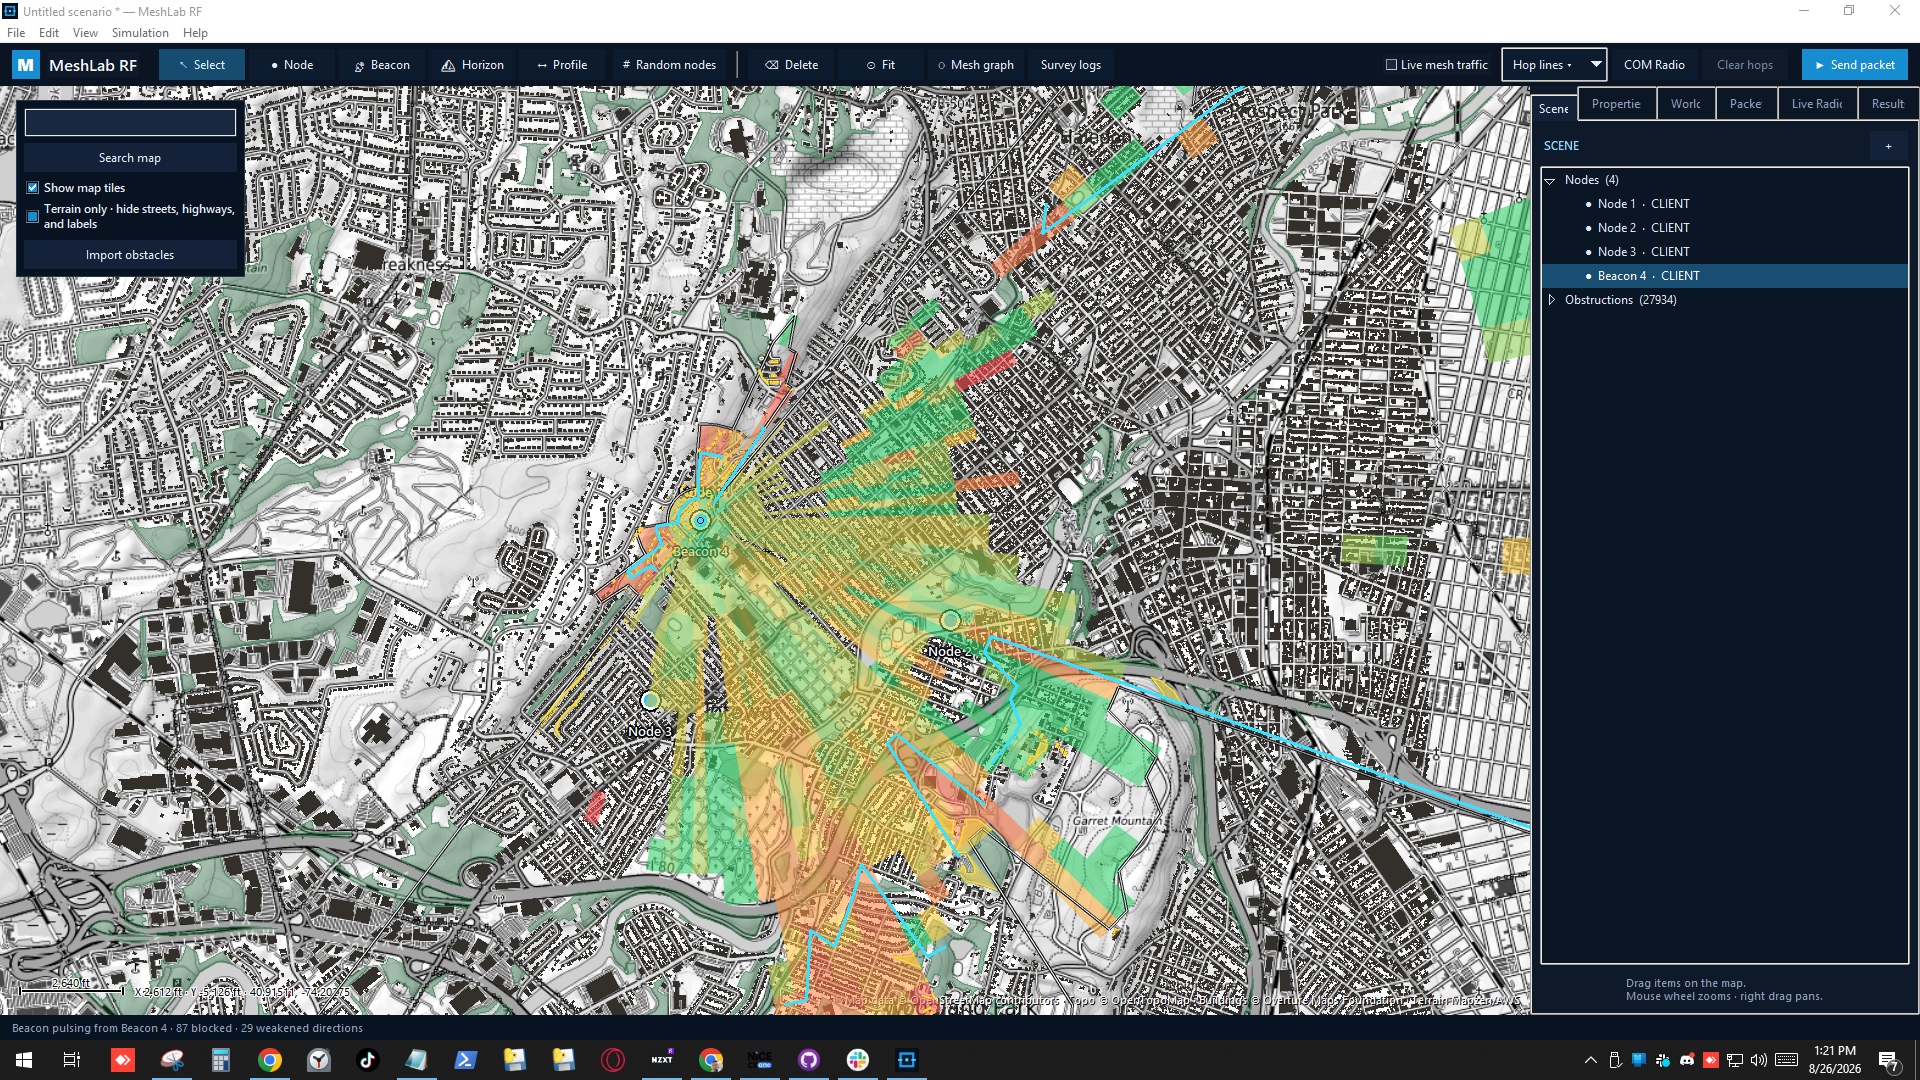
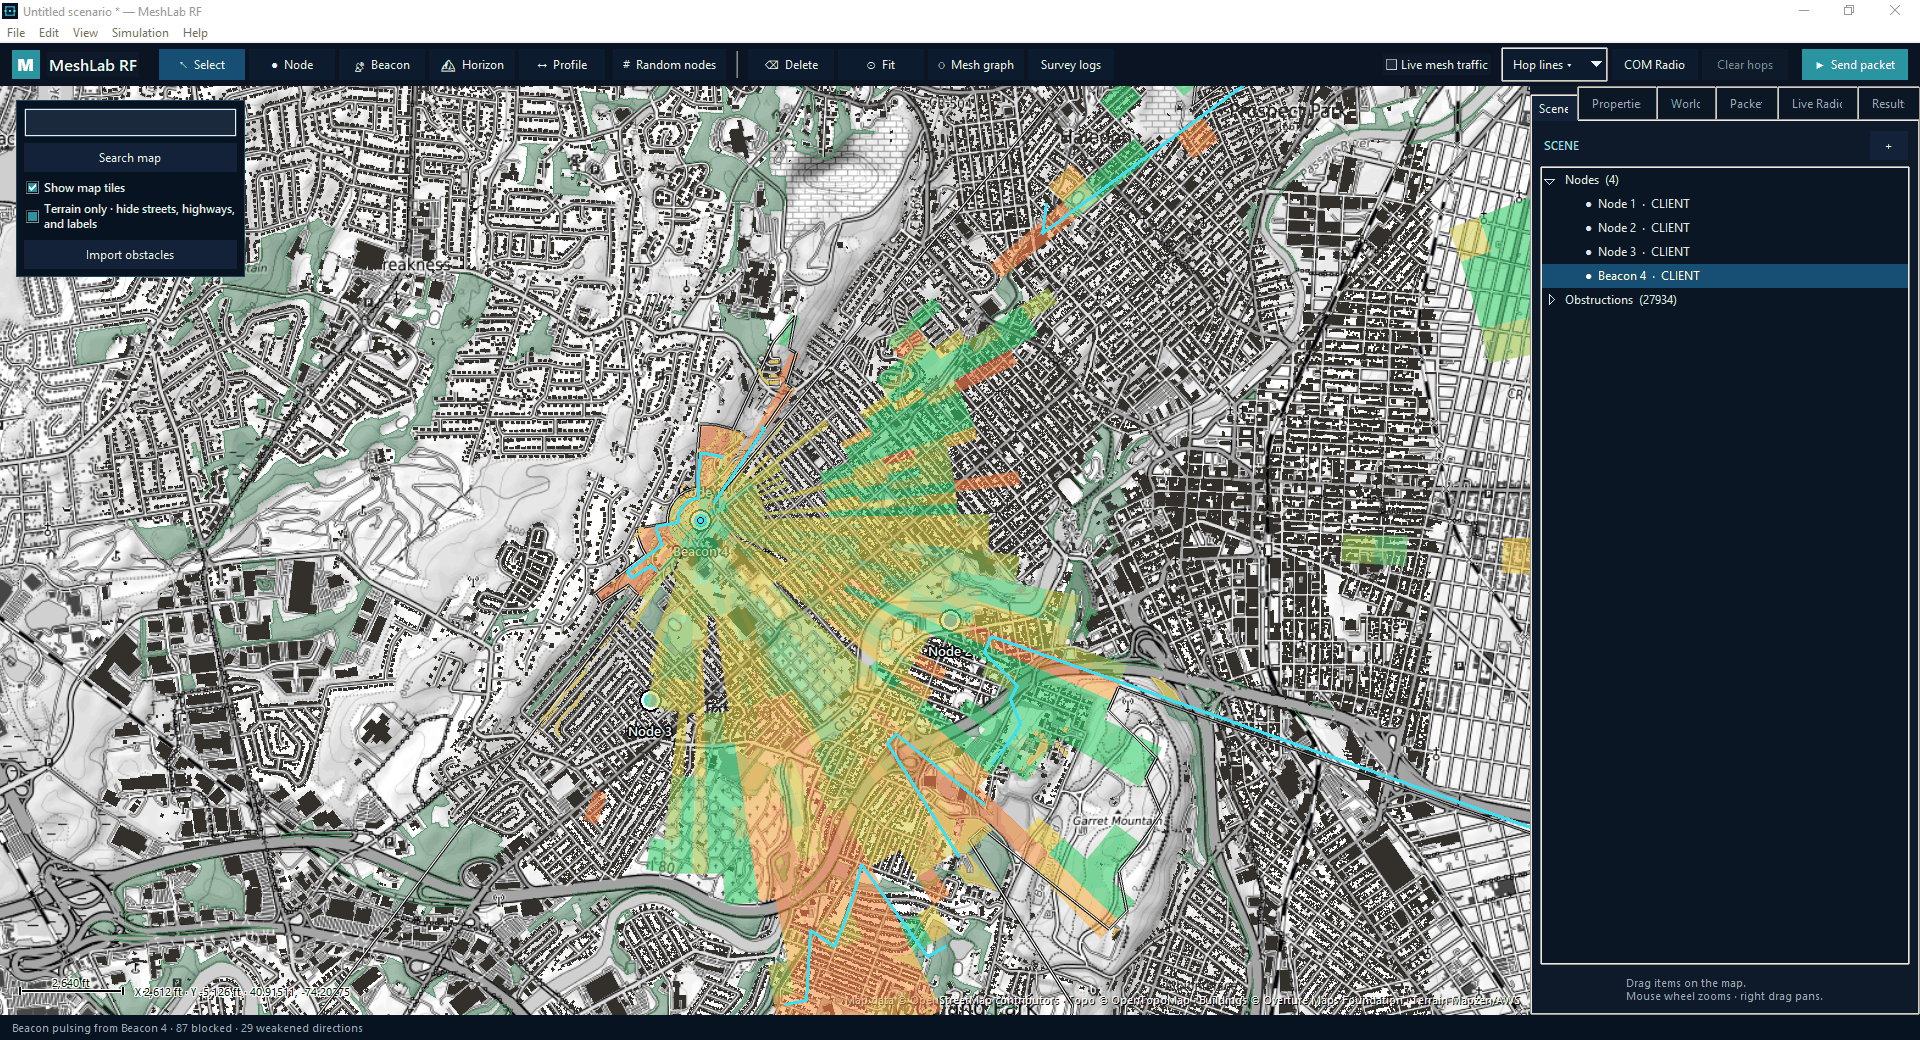
Polish README showcase: compress screenshots, center gallery layout
Crop the OS taskbar out of each screenshot and palette-quantize the
PNGs (~8.4MB -> ~3.2MB total, no visible quality loss). Restyle the
gallery as a centered image-first grid with captions underneath.

diff --git a/README.md b/README.md
@@ -6,40 +6,36 @@ Use it to explore coverage, find likely dead spots, compare node locations and h
 
 ## See it in action
 
+<div align="center">
+
 <table>
 <tr>
-<td width="50%">
-
-**Packet hops, live**
-Send a packet and watch it flood hop by hop across real terrain and buildings, colored and badged `H0`–`H3` by hop count.
+<td width="50%" valign="top">
 <img src="docs/media/packet-hops.png" alt="Packet send with colored hop lines and H0-H3 badges across a dense real map">
-
+<br><b>Packet hops, live</b><br>
+<sub>Send a packet and watch it flood hop by hop across real terrain and buildings, colored and badged H0–H3 by hop count.</sub>
 </td>
-<td width="50%">
-
-**Coverage heatmap**
-Drop a beacon and see its live range as a green-to-red ray heatmap, blocked and weakened directions called out as it pulses.
+<td width="50%" valign="top">
 <img src="docs/media/beacon-coverage.png" alt="Beacon coverage heatmap radiating across dense imported buildings">
-
+<br><b>Coverage heatmap</b><br>
+<sub>Drop a beacon and see its live range as a green-to-red ray heatmap, with blocked and weakened directions called out as it pulses.</sub>
 </td>
 </tr>
 <tr>
-<td width="50%">
-
-**360° horizon panorama**
-Stand at any node's real installed height and see the full skyline around it — terrain, buildings, and forest, obstructions marked.
+<td width="50%" valign="top">
 <img src="docs/media/horizon-panorama.png" alt="360 degree horizon panorama toward a wooded ridge with obstruction markers">
-
+<br><b>360° horizon panorama</b><br>
+<sub>Stand at any node's real installed height and see the full skyline around it — terrain, buildings, and forest, with obstructions marked.</sub>
 </td>
-<td width="50%">
-
-**Link profile between nodes**
-Slice the terrain between two nodes to see exactly what's in the way and how much margin the link has left.
+<td width="50%" valign="top">
 <img src="docs/media/profile-tool.png" alt="Elevation and obstacle profile between Node 1 and Node 2 with link margin">
-
+<br><b>Link profile between nodes</b><br>
+<sub>Slice the terrain between two nodes to see exactly what's in the way and how much margin the link has left.</sub>
 </td>
 </tr>
 </table>
+
+</div>
 
 ## Field survey firmware
 
